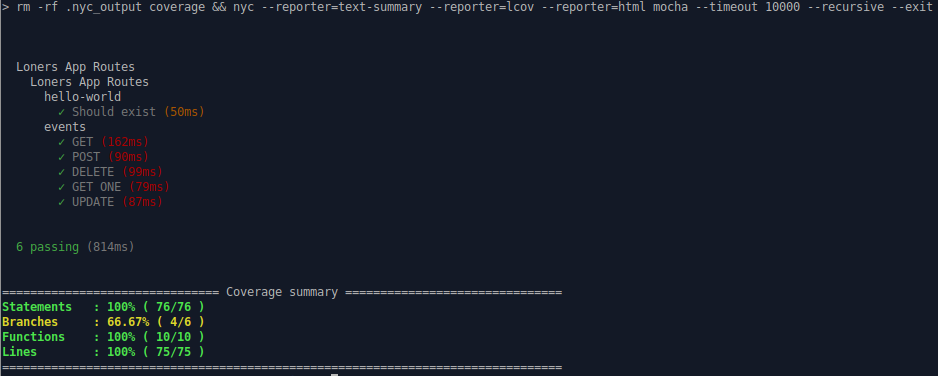
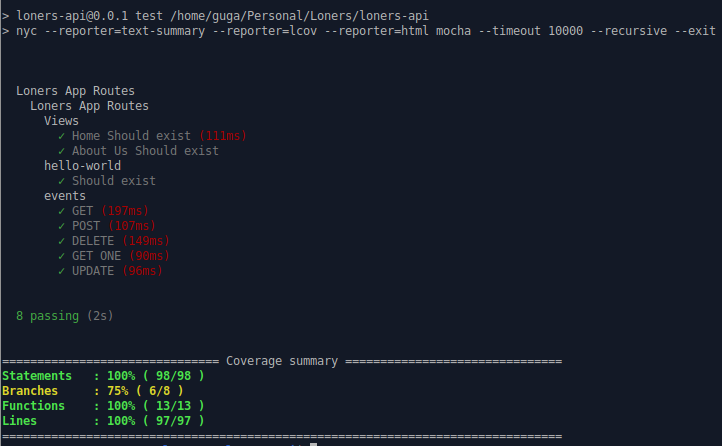
add views to tests

diff --git a/src/index.js b/src/index.js
@@ -1,46 +1,9 @@
-const HapiSwagger = require('hapi-swagger');
-const Inert = require('inert');
-const Vision = require('vision');
-const handlebars = require('handlebars');
-const pkg = require('../package.json');
 const initDb = require('./database');
 const { createServer, startServer } = require('./server');
 
 (async () => {
   try {
     const server = await createServer();
-    const swaggerOptions = {
-      info: {
-        title: `${pkg.description} Documentation`,
-        version: pkg.api_version,
-        contact: {
-          name: 'Guga Zimmermann',
-          email: 'gugazimmermann@gmail.com',
-        },
-      },
-      basePath: '/api/',
-      jsonEditor: true,
-      auth: false,
-    };
-    await server.register([
-      { plugin: Inert },
-      { plugin: Vision },
-      {
-        plugin: HapiSwagger,
-        options: swaggerOptions,
-      },
-    ]);
-    server.views({
-      engines: {
-        html: handlebars,
-      },
-      relativeTo: __dirname,
-      path: 'views',
-      layoutPath: 'views/layout',
-      layout: 'default',
-      partialsPath: 'views/partials',
-      helpersPath: 'views/helpers',
-    });
     await initDb();
     await startServer(server);
     console.log(`Server running at: ${server.info.uri}`);

diff --git a/src/server.js b/src/server.js
@@ -1,4 +1,9 @@
 const Hapi = require('hapi');
+const HapiSwagger = require('hapi-swagger');
+const Inert = require('inert');
+const Vision = require('vision');
+const handlebars = require('handlebars');
+const pkg = require('../package.json');
 const routes = require('./routes');
 require('dotenv').config();
 
@@ -11,6 +16,38 @@ const createServer = async () => {
 };
 
 const startServer = async (server) => {
+  const swaggerOptions = {
+    info: {
+      title: `${pkg.description} Documentation`,
+      version: pkg.api_version,
+      contact: {
+        name: 'Guga Zimmermann',
+        email: 'gugazimmermann@gmail.com',
+      },
+    },
+    basePath: '/api/',
+    jsonEditor: true,
+    auth: false,
+  };
+  await server.register([
+    { plugin: Inert },
+    { plugin: Vision },
+    {
+      plugin: HapiSwagger,
+      options: swaggerOptions,
+    },
+  ]);
+  server.views({
+    engines: {
+      html: handlebars,
+    },
+    relativeTo: __dirname,
+    path: 'views',
+    layoutPath: 'views/layout',
+    layout: 'default',
+    partialsPath: 'views/partials',
+    helpersPath: 'views/helpers',
+  });
   await server.route(routes);
   await server.start();
   return server;

diff --git a/src/routes/views/viewsRoute.js b/src/routes/views/viewsRoute.js
@@ -2,27 +2,25 @@ const viewsRoute = [
   {
     method: 'GET',
     path: '/',
-    handler: (request, reply) => {
+    handler: (res, _h) => {
       const data = {
         title: 'This is Index!',
         message: 'Hello, World. You crazy handlebars layout',
         context: 'index',
       };
-
-      return reply.view('index', data);
+      return _h.view('index', data);
     },
   },
   {
     method: 'GET',
     path: '/about-us',
-    handler: (request, reply) => {
+    handler: (res, _h) => {
       const data = {
         title: 'About Loners API!',
         message: 'A little bit about the app',
         context: 'about-us',
       };
-
-      return reply.view('about-us', data);
+      return _h.view('about-us', data);
     },
   },
 ];

diff --git a/test/routes.test.js b/test/routes.test.js
@@ -40,6 +40,17 @@ describe('Loners App Routes', () => {
 
 
   describe('Loners App Routes', () => {
+    describe('Views', () => {
+      it('Home Should exist', async () => {
+        const res = await chai.request(`http://${host}:${port}`).get('/');
+        expect(res.statusCode).to.be.eql(200);
+      });
+      it('About Us Should exist', async () => {
+        const res = await chai.request(`http://${host}:${port}`).get('/about-us');
+        expect(res.statusCode).to.be.eql(200);
+      });
+    });
+
     describe('hello-world', () => {
       it('Should exist', async () => {
         const res = await chai.request(`http://${host}:${port}`).get('/helloWorld');

diff --git a/src/views/helpers/isContext.js b/src/views/helpers/isContext.js
@@ -2,10 +2,6 @@ const _ = require('lodash');
 
 const isContext = (option, viewdata) => {
   const { context } = viewdata.data.root;
-  console.log(context);
-  if (!_.isString(context)) {
-    return viewdata.inverse(this);
-  }
 
   if (_.isEqual(context, option)) {
     return viewdata.fn(this);
